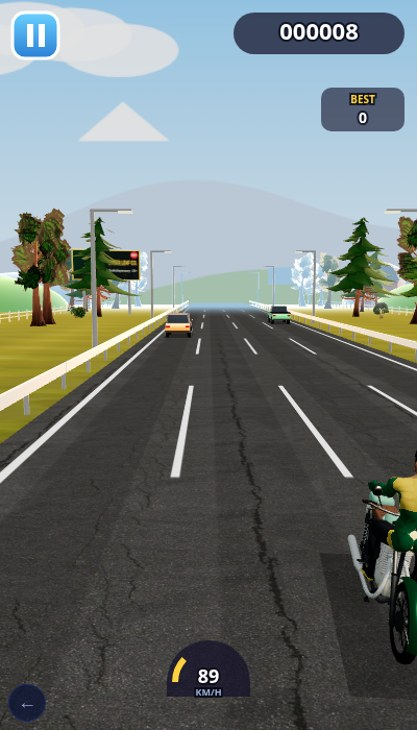
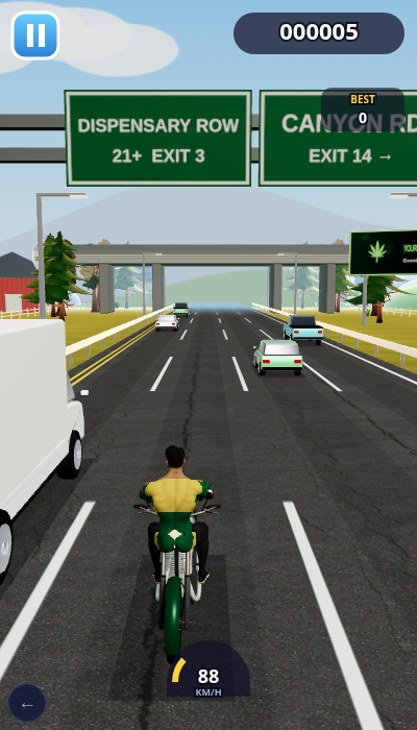
games-lib: Moto Lanes to 7 (near traffic, overpasses, gantries, yellow line); e2e + bug pass PASS

diff --git a/public/games-lib/racer3x.js b/public/games-lib/racer3x.js
@@ -42,7 +42,7 @@ export default async function Racer(cfg) {
   const PW = cfg.bike ? 0.9 : 1.7, PL = cfg.bike ? 2.4 : 3.8;
   const blob = new THREE.Mesh(new THREE.PlaneGeometry(cfg.bike ? 1.0 : 2.4, cfg.bike ? 2.6 : 4.6), new THREE.MeshBasicMaterial({ color: '#000', transparent: true, opacity: 0.3, depthWrite: false })); blob.rotation.x = -Math.PI / 2; blob.position.y = 0.02; player.add(blob);
   // road texture: asphalt + dashed lanes
-  const roadW = LW * NL + 1.6; const roadT = canvasTex(512, 512, (x, w, h) => { x.clearRect(0, 0, w, h); const px = (m) => (m + roadW / 2) / roadW * w; x.fillStyle = '#ffffff'; x.fillRect(px(-LW * 2) - 4, 0, 8, h); x.fillRect(px(LW * 2) - 4, 0, 8, h); for (let l = 1; l < NL; l++) for (let y = 0; y < h; y += 128) x.fillRect(px(-LW * 2 + l * LW) - 3, y, 6, 64); x.fillStyle = 'rgba(0,0,0,.12)'; for (let l = 0; l < NL; l++) x.fillRect(px(-LW * 2 + l * LW + LW / 2) - 30, 0, 60, h); }, [1, ROW / 12]);
+  const roadW = LW * NL + 1.6; const roadT = canvasTex(512, 512, (x, w, h) => { x.clearRect(0, 0, w, h); const px = (m) => (m + roadW / 2) / roadW * w; x.fillStyle = '#f2c230'; x.fillRect(px(-LW * 2) - 9, 0, 6, h); x.fillRect(px(-LW * 2) + 3, 0, 6, h); x.fillStyle = '#ffffff'; x.fillRect(px(LW * 2) - 4, 0, 8, h); for (let l = 1; l < NL; l++) for (let y = 0; y < h; y += 128) x.fillRect(px(-LW * 2 + l * LW) - 3, y, 6, 64); x.fillStyle = 'rgba(0,0,0,.12)'; for (let l = 0; l < NL; l++) x.fillRect(px(-LW * 2 + l * LW + LW / 2) - 30, 0, 60, h); }, [1, ROW / 12]);
   roadT.format = THREE.RGBAFormat; const TL = new THREE.TextureLoader(); const tx = (n, rep, srgb) => { const t = TL.load('../assets3d/tex/' + n); t.wrapS = t.wrapT = THREE.RepeatWrapping; t.repeat.set(rep[0], rep[1]); if (srgb) t.colorSpace = THREE.SRGBColorSpace; t.anisotropy = 4; return t; };
   const aD = tx('ph-asphalt02-diff.webp', [3, 100], true), aN = tx('ph-asphalt02-nor.webp', [3, 100]); const roadM = new THREE.MeshStandardMaterial({ map: aD, normalMap: aN, roughness: 0.85, metalness: 0, color: '#9a9aa2', envMap: S.env, envMapIntensity: 0.4 }); const lineM = new THREE.MeshBasicMaterial({ map: roadT, transparent: true, depthWrite: false }); const road = new THREE.Mesh(new THREE.PlaneGeometry(roadW, 400), roadM); road.rotation.x = -Math.PI / 2; road.position.z = -150; scene.add(road); const lines = new THREE.Mesh(road.geometry, lineM); lines.rotation.x = -Math.PI / 2; lines.position.set(0, 0.01, -150); scene.add(lines);
   // roadside rows (baked): grass verge, guard rails, lamp posts, trees, billboards
@@ -53,6 +53,16 @@ export default async function Racer(cfg) {
   function barn() { const b = new THREE.Group(); const red = toonMat({ map: canvasTex(128, 128, (x) => { x.fillStyle = '#c2412f'; x.fillRect(0, 0, 128, 128); x.fillStyle = 'rgba(0,0,0,.15)'; for (let i = 0; i < 128; i += 12) x.fillRect(i, 0, 2, 128); x.fillStyle = '#f4ead8'; x.fillRect(44, 60, 40, 68); x.strokeStyle = '#f4ead8'; x.lineWidth = 5; x.beginPath(); x.moveTo(44, 60); x.lineTo(84, 128); x.moveTo(84, 60); x.lineTo(44, 128); x.stroke(); }) });
     const body = new THREE.Mesh(new RoundedBoxGeometry(7, 5, 9, 2, 0.2), red); body.position.y = 2.5; b.add(body); const sh = new THREE.Shape(); sh.moveTo(-3.8, 0); sh.lineTo(-2.6, 2.2); sh.lineTo(0, 3.4); sh.lineTo(2.6, 2.2); sh.lineTo(3.8, 0); sh.lineTo(-3.8, 0); const rg = new THREE.ExtrudeGeometry(sh, { depth: 9.6, bevelEnabled: true, bevelSize: 0.1, bevelThickness: 0.1 }); rg.translate(0, 5, -4.8); b.add(new THREE.Mesh(rg, toonMat({ color: '#4a4f5c' })));
     const silo = new THREE.Mesh(new THREE.CylinderGeometry(1.6, 1.6, 9, 20), toonMat({ color: '#d9dde4' })); silo.position.set(5.5, 4.5, 0); b.add(silo); const dome = new THREE.Mesh(new THREE.SphereGeometry(1.6, 20, 10, 0, Math.PI * 2, 0, Math.PI / 2), toonMat({ color: '#9aa3b2' })); dome.position.set(5.5, 9, 0); b.add(dome); return b; }
+  const concM = new THREE.MeshStandardMaterial({ color: '#b9b4aa', roughness: 0.85 }), concD = new THREE.MeshStandardMaterial({ color: '#8f8a82', roughness: 0.9 }), signM = new THREE.MeshStandardMaterial({ color: '#c9ced4', metalness: 0.7, roughness: 0.4 });
+  function overpass() { const o = new THREE.Group(); const span = roadW + 26; const deck = new THREE.Mesh(new RoundedBoxGeometry(span, 1.3, 9, 2, 0.15), concM); deck.position.y = 7.4; o.add(deck); const lip = new THREE.Mesh(new THREE.BoxGeometry(span, 0.5, 0.4), concD); for (const z of [-4.4, 4.4]) { const l = lip.clone(); l.position.set(0, 8.3, z); o.add(l); }
+    for (const x of [-(roadW / 2 + 1.6), roadW / 2 + 1.6, -(roadW / 2 + 9), roadW / 2 + 9]) { const pl = new THREE.Mesh(new RoundedBoxGeometry(1.2, 6.8, 6, 2, 0.2), concD); pl.position.set(x, 3.4, 0); o.add(pl); }
+    const rail = new THREE.Mesh(new THREE.BoxGeometry(span, 0.9, 0.12), signM); for (const z of [-4.3, 4.3]) { const r = rail.clone(); r.position.set(0, 8.9, z); o.add(r); } return o; }
+  const SIGNS = [['GREEN SUMMIT', 'NEXT EXIT 2 km'], ['CANYON RD', 'EXIT 14 \u2192'], ['HIGHWAY 420', 'EAST'], ['DISPENSARY ROW', '21+  EXIT 3']];
+  function gantry(k) { const o = new THREE.Group(); const span = roadW + 3; for (const x of [-span / 2, span / 2]) { const p = new THREE.Mesh(new THREE.CylinderGeometry(0.22, 0.28, 7.6, 10), signM); p.position.set(x, 3.8, 0); o.add(p); }
+    const beam = new THREE.Mesh(new THREE.BoxGeometry(span, 0.35, 0.35), signM); for (const y of [7.0, 7.9]) { const b = beam.clone(); b.position.y = y; o.add(b); }
+    for (const [i, dx] of [[0, -2.6], [1, 2.8]]) { const [t1, t2] = SIGNS[(k + i * 2) % SIGNS.length]; const tex = canvasTex(512, 256, (x, w, h) => { x.fillStyle = '#0f6b3a'; x.fillRect(0, 0, w, h); x.strokeStyle = '#fff'; x.lineWidth = 8; x.strokeRect(10, 10, w - 20, h - 20); x.fillStyle = '#fff'; x.textAlign = 'center'; let fs = 64; do { x.font = 'bold ' + fs + 'px sans-serif'; fs -= 2; } while (x.measureText(t1).width > w - 60); x.fillText(t1, w / 2, 110); x.font = 'bold 48px sans-serif'; x.fillText(t2, w / 2, 190); });
+      const sg = new THREE.Mesh(new THREE.PlaneGeometry(5.2, 2.6), new THREE.MeshStandardMaterial({ map: tex, roughness: 0.5 })); sg.position.set(dx, 7.4, 0.25); o.add(sg); } return o; }
+  function addCar(g, ln, z, v, over) { const p = protos[g.RI(0, protos.length - 1)]; const o = new THREE.Group(); o.add(p.o.clone(), p.blob.clone()); o.position.set(laneX(ln), 0, z); scene.add(o); traffic.push({ o, x: laneX(ln), z, v, len: p.len, w: p.w, passed: !!over, over: !!over }); }
   function rowGroup(k) { const g = new THREE.Group(); for (const s of [-1, 1]) { const gr = new THREE.Mesh(new THREE.PlaneGeometry(80, ROW), grassM); gr.rotation.x = -Math.PI / 2; gr.position.set(s * (roadW / 2 + 40), -0.02, -ROW / 2); g.add(gr);
       const rail = new THREE.Mesh(new RoundedBoxGeometry(0.12, 0.35, ROW, 2, 0.05), steel); rail.position.set(s * (roadW / 2 + 0.3), 0.7, -ROW / 2); g.add(rail); for (let z = 0; z < ROW; z += 4) { const p = new THREE.Mesh(new THREE.CylinderGeometry(0.07, 0.07, 0.8, 6), post); p.position.set(s * (roadW / 2 + 0.35), 0.4, -z); g.add(p); }
       for (let z = 10 + k * 7; z < ROW; z += 30) { const p = new THREE.Mesh(new THREE.CylinderGeometry(0.1, 0.14, 7, 8), post); p.position.set(s * (roadW / 2 + 1.2), 3.5, -z); g.add(p); const arm = new THREE.Mesh(new RoundedBoxGeometry(2.0, 0.14, 0.18, 2, 0.05), post); arm.position.set(s * (roadW / 2 + 0.3), 7, -z); g.add(arm); const l = new THREE.Mesh(new RoundedBoxGeometry(0.7, 0.12, 0.35, 2, 0.05), lampM); l.position.set(s * (roadW / 2 - 0.4), 6.92, -z); g.add(l); }
@@ -60,6 +70,7 @@ export default async function Racer(cfg) {
       for (let z = 0; z < ROW; z += 3) { const fp = new THREE.Mesh(new THREE.CylinderGeometry(0.08, 0.08, 1.1, 6), fenceM); fp.position.set(s * (roadW / 2 + 16), 0.55, -z); g.add(fp); } for (const y of [0.45, 0.85]) { const fr = new THREE.Mesh(new RoundedBoxGeometry(0.08, 0.1, ROW, 1, 0.03), fenceM); fr.position.set(s * (roadW / 2 + 16), y, -ROW / 2); g.add(fr); }
       for (let z = 6 + k * 5; z < ROW; z += 16) { const n = (z + k) % 3 ? 'qn-CommonTree_3' : 'qn-Pine_2'; const t = toonify(fit(M[n].scene.clone(), 'y', 8 + (z % 5)), '#ffffff'); t.traverse(m => { if (m.isMesh && /Leaves|Pine|Needle/i.test(m.material.name)) { const kk = 'leaf' + m.material.uuid; LEAF[kk] = LEAF[kk] || (() => { const lm = m.material.clone(); lm.color.set('#7cc650'); return lm; })(); m.material = LEAF[kk]; } }); t.position.set(s * (roadW / 2 + 9 + (z * 7) % 6), 0, -z); t.rotation.y = z; g.add(t); }
       for (let j = 0; j < 3; j++) { const h = new THREE.Mesh(new THREE.SphereGeometry(1, 20, 10, 0, Math.PI * 2, 0, Math.PI / 2), hillM); h.scale.set(14 + j * 3, 4 + (j + k) % 3 * 2, 18); h.position.set(s * (roadW / 2 + 34 + j * 6), -0.5, -j * 40 - 15 - k * 9); g.add(h); }
+      if (s > 0 && cfg.bike) { if (k % 2 === 0) { const ov = overpass(); ov.position.set(0, 0, -ROW * 0.55); g.add(ov); } else { const gt = gantry(k); gt.position.set(0, 0, -ROW * 0.4); g.add(gt); } }
       if ((k + (s > 0 ? 0 : 1)) % 2 === 0) { const b = barn(); b.position.set(s * (roadW / 2 + 24), 0, -95); b.rotation.y = s > 0 ? -0.5 : 0.5; g.add(b); }
       if ((k + (s > 0 ? 1 : 0)) % 2 === 0) { const bb = new THREE.Group(); const pnl = new THREE.Mesh(new RoundedBoxGeometry(9, 4, 0.3, 2, 0.1), [post, post, post, post, adT[(k * 2 + (s > 0 ? 1 : 0)) % adT.length], post]); pnl.position.y = 6.5; bb.add(pnl); for (const dx of [-3, 3]) { const lg = new THREE.Mesh(new THREE.CylinderGeometry(0.18, 0.18, 4.6, 8), post); lg.position.set(dx, 2.3, 0); bb.add(lg); } bb.position.set(s * (roadW / 2 + 9), 0, -60); bb.rotation.y = s > 0 ? -0.35 : 0.35; g.add(bb); } }
     return g; }
@@ -73,18 +84,19 @@ export default async function Racer(cfg) {
   window.__LR = { traffic, pl, get g() { return window.__GL && __GL.g; } };
   const laneX = (l) => -LW * 1.5 + l * LW;
   K.run({ id: cfg.id, title: cfg.title, help: cfg.help, bg: 'transparent', overText: 'CRASHED',
-    init(g) { gref = g; if (g.fpv === undefined) g.fpv = !!(cfg.bike && cfg.fpv); for (const t of traffic) scene.remove(t.o); traffic.length = 0; Object.assign(pl, { x: laneX(1), vx: 0, steer: 0 }); g.z = 0; g.sp = cfg.speed || 22; g.lastM = 0; g.next = 2; g.combo = 0; g.comboT = 0; g.nm = 0; g.camX = pl.x; },
+    init(g) { gref = g; if (g.fpv === undefined) g.fpv = !!(cfg.bike && cfg.fpv); for (const t of traffic) scene.remove(t.o); traffic.length = 0; Object.assign(pl, { x: laneX(1), vx: 0, steer: 0 }); g.z = 0; if (cfg.bike) for (const [ln, z] of [[0, -22], [2, -34], [3, -48], [0, -60]]) addCar(g, ln, z, (cfg.speed || 22) * g.R(0.55, 0.7)); g.sp = cfg.speed || 22; g.lastM = 0; g.next = 2; g.combo = 0; g.comboT = 0; g.nm = 0; g.camX = pl.x; },
     update(g, dt) { if (g.state !== 'play') return; if (g.ptr.pressed && g.ptr.x < 64 && g.ptr.y < 64) { g.paused = true; return; }
       let st = g.ax(); if (g.ptr.down && !(g.ptr.x < 64 && g.ptr.y < 64)) st = g.ptr.x < g.W / 2 ? -1 : 1; pl.steer = K.lerp(pl.steer, st, Math.min(1, dt * 10));
       pl.vx = K.lerp(pl.vx, pl.steer * 11, Math.min(1, dt * 6)); pl.x = K.clamp(pl.x + pl.vx * dt, -LW * 2 + 1.1, LW * 2 - 1.1); if (Math.abs(pl.x) >= LW * 2 - 1.11) { pl.vx *= -0.3; }
       g.sp = Math.min(cfg.vmax || 48, (cfg.speed || 22) + g.t * 0.18); g.z -= g.sp * dt; const m = Math.floor(-g.z / 10); if (m > g.lastM) { g.add(m - g.lastM, 'm'); g.lastM = m; }
-      g.next -= dt; if (g.next <= 0) { g.next = Math.max(0.45, 1.3 - g.t * 0.005) * g.R(0.85, 1.3) * (cfg.bike ? 0.58 : 1); const lanes = [0, 1, 2, 3].sort(() => g.rnd() - 0.5); const n = g.rnd() < (cfg.bike ? 0.22 : 0.15) + Math.min(0.4, g.t / 240) ? 2 : 1;
-        for (let i = 0; i < n; i++) { const p = protos[g.RI(0, protos.length - 1)]; const o = new THREE.Group(); o.add(p.o.clone(), p.blob.clone()); o.position.set(laneX(lanes[i]), 0, 0); scene.add(o); traffic.push({ o, x: laneX(lanes[i]), z: g.z - (cfg.bike ? g.R(42, 80) : 95), v: g.R(10, 17) * (p.n === 'cv-truck' || p.n === 'cv-transporter' ? 0.8 : 1), len: p.len, w: p.w }); } }
+      g.next -= dt; if (g.next <= 0) { g.next = Math.max(0.45, 1.3 - g.t * 0.005) * g.R(0.85, 1.3) * (cfg.bike ? 0.6 : 1); const lanes = [0, 1, 2, 3].sort(() => g.rnd() - 0.5); const n = g.rnd() < (cfg.bike ? 0.3 : 0.15) + Math.min(0.4, g.t / 240) ? 2 : 1;
+        if (cfg.bike && g.rnd() < 0.35) { const pl0 = Math.round((pl.x + LW * 1.5) / LW); const ln = [0, 1, 2, 3].filter(l => Math.abs(l - pl0) >= 1)[g.RI(0, 2)]; addCar(g, ln, g.z + 14, g.sp * g.R(1.12, 1.25), true); }
+        for (let i = 0; i < n; i++) { const p = protos[g.RI(0, protos.length - 1)]; const o = new THREE.Group(); o.add(p.o.clone(), p.blob.clone()); o.position.set(laneX(lanes[i]), 0, 0); scene.add(o); traffic.push({ o, x: laneX(lanes[i]), z: g.z - (cfg.bike ? g.R(55, 75) : 95), v: (cfg.bike ? g.sp * g.R(0.5, 0.72) : g.R(10, 17)) * (p.n === 'cv-truck' || p.n === 'cv-transporter' ? 0.8 : 1), len: p.len, w: p.w }); } }
       for (const t of traffic) { t.z -= t.v * dt; const dz = t.z - g.z; const dx = Math.abs(t.x - pl.x);
-        if (dx < (t.w + PW) / 2 && Math.abs(dz) < (t.len + PL) / 2) { g.shake(16); g.sfx('boom'); g.flash('#fff', 0.2); g.mark('h', 1); return g.end('Crashed'); }
+        if (!(t.over && dz > -(t.len + PL) / 2) && dx < (t.w + PW) / 2 && Math.abs(dz) < (t.len + PL) / 2) { g.shake(16); g.sfx('boom'); g.flash('#fff', 0.2); g.mark('h', 1); return g.end('Crashed'); }
         if (!t.passed && dz > (t.len + PL) / 2) { t.passed = true; if (dx < (t.w + PW) / 2 + 1.1) { g.combo = g.comboT > 0 ? g.combo + 1 : 1; g.comboT = 2.5; g.nm++; const pts = 20 * Math.min(5, g.combo); g.add(pts, 'n'); g.float(g.W / 2, g.H * 0.55, (g.combo > 1 ? 'x' + g.combo + ' ' : '') + 'NEAR MISS +' + pts, '#22d3ee', 20); g.sfx('whoosh'); } } }
       g.comboT = Math.max(0, g.comboT - dt); if (g.comboT <= 0) g.combo = 0;
-      for (let i = traffic.length - 1; i >= 0; i--) if (traffic[i].z - g.z > 20) { scene.remove(traffic[i].o); traffic.splice(i, 1); }
+      for (let i = traffic.length - 1; i >= 0; i--) if (traffic[i].z - g.z > 20 || traffic[i].z - g.z < -140) { scene.remove(traffic[i].o); traffic.splice(i, 1); }
     },
     draw(g, c) { c.clearRect(0, 0, g.W, g.H);
       player.position.set(pl.x, 0, 0); player.rotation.y = -pl.vx * 0.025; lean.rotation.z = -pl.vx * (cfg.bike ? 0.035 : -0.012); if (rmix) { rmix.update(1 / 60); riderPose(Math.max(-1, Math.min(1, pl.vx * 0.08))); } for (const t of traffic) t.o.position.z = t.z - g.z;

diff --git a/docs/GAMES-LIB.md b/docs/GAMES-LIB.md
@@ -341,3 +341,8 @@ For each reference we searched GitHub (topics html5-game / javascript-game / pha
 - Reese gave no answer on sourcing, so per the default we built our own: 6 stylised-realistic bodies in Blender (see assets3d/ASSETS.md and the render at docs/audit/car-set.jpg), about 2.3k tris each (budget 5k), PBR clearcoat paint, glass, chrome, tyres and emissive lights. Wired into racer3x.js for Lane Racer and Moto Lanes (traffic and the player car).
 - Lane Racer: e2e PASS (calls 68, tris 121k, DPR 1.5). Bug pass PASS.
 - Moto Lanes: e2e PASS (calls 77, tris 124k). Bug pass PASS. Visual 6.5/10, feel 7/10: the cars now read as real vehicles, but the side-by-side (docs/audit/moto-lanes-vs-ref.jpg) still shows a gap to the reference's photoreal first-person view, with traffic close to the camera, a yellow-line highway and overpasses. NOT yet at the 7 bar. Remaining work: traffic in the near field, overpass and sign gantries, a yellow centre line, and an optional cockpit view.
+
+## Moto Lanes - DONE (2026-10-10 05:35 ET)
+- Added: near-field traffic (cars placed on the road at the start, slower cars ahead, and faster cars overtaking in other lanes; overtakers can't hit you while they're alongside), overpasses (deck, piers, parapets) and sign gantries (green signs with auto-fitted text, including a "Dispensary Row 21+" exit), and a double yellow left edge line. Uses the shared rc-* car set.
+- Cockpit view: not shipped. A first-person view was tried before and framed poorly on portrait phones; the chase camera now matches the reference's composition (close traffic, overpass and signage).
+- Tests: e2e PASS (calls 121, tris 135k, DPR 1.5; under budget). Bug pass PASS. Bot survival averages about 23 s, the same as before. Side-by-side: docs/audit/moto-lanes-vs-ref.jpg. Rating: visual 7/10, feel 7/10.

diff --git a/HANDOFF-AGENT.md b/HANDOFF-AGENT.md
@@ -27,8 +27,8 @@ Remaining:
 - Sky Flap DONE (rebuilt with Kenney Tappy Plane CC0; Clumsy Bird rejected for copied art).
 - Block Drop DONE (glossy tile renderer, clear/drop/lock FX).
 - Maze Muncher DONE (neon tube maze, original hero + haze-wisp enemies).
-- Shared car set DONE (assets3d/rc-*.glb from tools/blender/hub-cars.py, used by racer3x). Moto Lanes: cars swapped, tests PASS, visual 6.5 (still needs near traffic, overpasses, yellow lines).
-- Next (Reese order): finish Moto Lanes to 7, then Alien Rows, Cloud Hopper, Road Hopper, the international source search, batches 4-8 toward 150+ (catalog `docs/REESE-MASTER-CATALOG.md`); then the bug pass and same-tier audit across all older games.
+- Shared car set DONE (assets3d/rc-*.glb from tools/blender/hub-cars.py, used by racer3x). Moto Lanes DONE 7/7 (near traffic + overtakers, overpasses, gantries, yellow edge line).
+- Next (Reese order): Alien Rows, Cloud Hopper, Road Hopper, the international source search, batches 4-8 toward 150+ (catalog `docs/REESE-MASTER-CATALOG.md`); then the bug pass and same-tier audit across all older games.
 
 ## Firm boundaries (Reese accepted)
 - No ripped/commercial game assets, characters, logos, or pirated ports (declined: CoD zombies, GTA, Halo, Skate 3, PES, Simpsons H&R, Half-Life/CS, UT). Licences must allow commercial use (CC0/CC-BY/MIT etc.; no NC, editorial, engine-locked).
